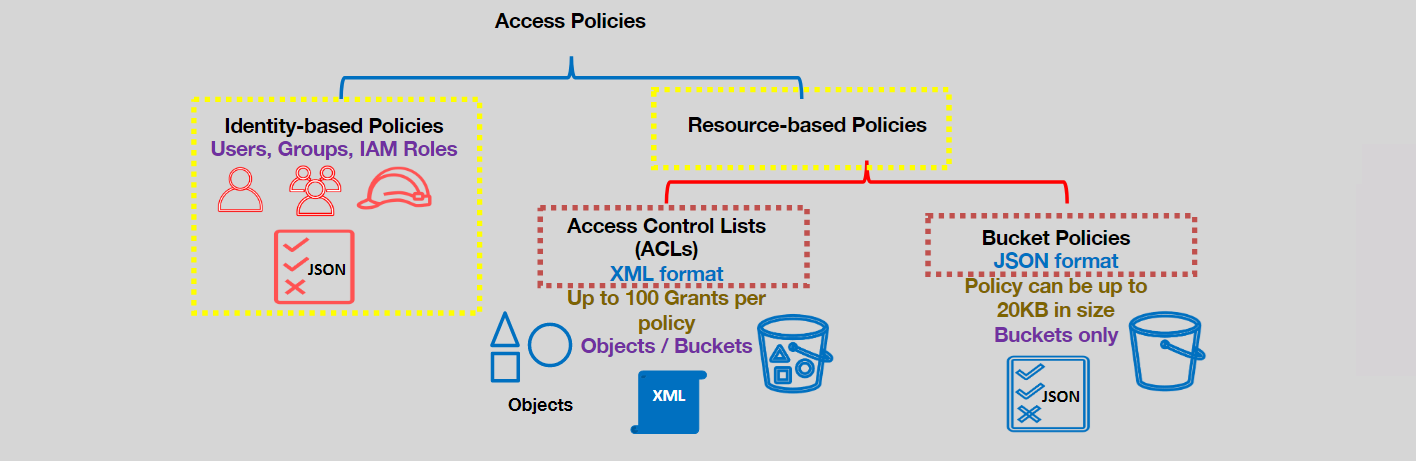
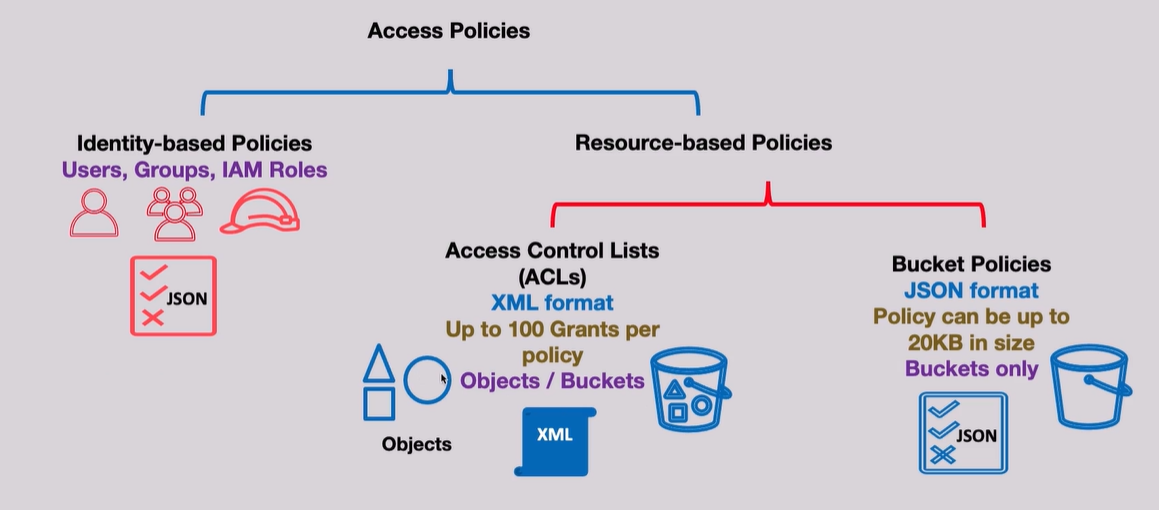
s3-access

Changed region(s): [[0.0311, 0.1215, 0.994, 0.9414], [0.3106, 0.0304, 0.4659, 0.0911]]

diff --git a/5-cloud Providers/aws/aws-services/storage/s3/3.s3-access-policies.md b/5-cloud Providers/aws/aws-services/storage/s3/3.s3-access-policies.md
@@ -8,96 +8,133 @@ Amazon S3 **Access Policies** are essential for controlling who can access your 
 
 Access policies in Amazon S3 can be categorized into two primary types:
 
-- **Identity-Based Policies:** Policies attached to IAM users, groups, or roles that define their permissions.
-- **Resource-Based Policies:** Policies attached directly to S3 resources (buckets or objects) that define who can access them.
+- **🔖 Identity-Based Policies:** Policies attached to IAM users, groups, or roles that define their permissions.
+- **🔖 Resource-Based Policies:** Policies attached directly to S3 resources (buckets or objects) that define who can access them.
 
-Both S3 buckets and Glacier vaults support IAM resource-based policies, with Glacier vaults utilizing **Vault Access Policies**.
-
-### **Policy Types:**
-
-1. **Access Control Lists (ACLs):**
-
-   - **Format:** XML
-   - **Grants:** Up to 100 grants per policy
-   - **Scope:** Can be applied at the bucket or object level
-
-2. **Bucket Policies:**
-   - **Format:** JSON
-   - **Size Limit:** Up to 20KB per policy
-   - **Scope:** Applied only at the bucket level
+> 💡 Bonus: Amazon Glacier (S3’s cold storage cousin) uses a special version called **Vault Access Policies**.
 
 ---
 
-## 🛠 **Understanding Object Ownership in S3**
+<div align="center" style="padding: 0 20px;">
+    <img src="images/s3-access-policies.png" style="border-radius: 10px;" alt="s3-access-policies">
+</div>
+
+---
+
+### **🤹♀ S3 Resource-Based Policy Types:**
+
+1⃣ **Access Control Lists (ACLs):**
+
+- **Format:** XML
+- **Grants:** Up to 100 grants per policy
+- **Scope:** Can be applied at the bucket or object level
+
+2⃣ **Bucket Policies:**
+
+- **Format:** JSON
+- **Size Limit:** Up to 20KB per policy
+- **Scope:** Applied only at the bucket level
+
+---
+
+## 🧾 **Object Ownership in Amazon S3** 🔐
+
+In S3, every object (file) is **owned by the AWS account that uploads it** — unless you configure otherwise.
 
 **Object Ownership** determines which AWS account owns the objects within an S3 bucket. Properly configuring object ownership is vital for managing access and ensuring security.
 
-### **Key Points:**
+<div style="text-align:center;">
+    <img src="images/s3-object-ownership.png" style="border-radius: 10px;" alt="S3 Object Ownership">
+</div>
 
-- **Default Privacy:** Objects and buckets are private by default.
-- **Ownership:** Every resource in AWS is owned by an AWS account.
-- **Bucket Owner:** The account that created the bucket is the resource owner.
+---
 
-### **Object Ownership Options:**
+This is important because:
 
-![S3 Object Ownership](images/s3-object-ownership.png)
+- **The object owner controls permissions** on the object (like who can read/write/delete).
+- Even if _you own the bucket_, someone else who uploads an object may own it — which can cause access headaches!
 
-- **Bucket Owner Preferred:**
+---
 
-  - The bucket owner automatically owns every object in the bucket.
-  - Access control is managed exclusively through policies, eliminating the need for ACLs.
+### 🧠 Why This Matters
 
-- **Object Writer:**
-  - The account that uploads the object is the object owner.
-  - Useful in cross-account scenarios but can complicate access management.
+If **another AWS account uploads** an object to your bucket, by default:
 
-**Recommendation:** Disable ACLs and use **Object Ownership** with policy-based access controls unless ACLs are absolutely necessary.
+- ❌ _You (the bucket owner) won’t have full access to that object._
+- You’d need the uploader to explicitly grant you permission via ACLs.
+
+➡ That’s messy, especially in **cross-account uploads**.
+
+---
+
+### ✅ Solution: Configure **Object Ownership**
+
+S3 gives you control over who owns uploaded objects with **3 modes**:
+
+| Mode                          | Who Owns the Object?                            | Recommended? |
+| ----------------------------- | ----------------------------------------------- | ------------ |
+| ❌ **Object Writer**          | Uploader (default legacy)                       | ❌ No        |
+| ✅ **Bucket Owner Preferred** | Bucket owner (even if uploaded by someone else) | ✅ Yes       |
+| 🔒 **ACLs Disabled**          | Bucket owner by default, ACLs ignored           | ✅ Strongest |
 
 ---
 
 ## 🛡 **Using Access Control Lists (ACLs)**
 
-While ACLs provide a way to grant basic permissions, they are **not recommended** due to their complexity and limited flexibility.
+Access Control Lists (ACLs) are the **legacy way** to grant permissions to S3 buckets and objects — like public read/write access or sharing with another AWS account. While they once played a vital role, **ACLs are now discouraged** in favor of more powerful and manageable **IAM and bucket policies**.
 
-### **Key Points:**
+| Feature                     | With ACLs ✅              | Without ACLs (Recommended) ✅   |
+| --------------------------- | ------------------------- | ------------------------------- |
+| Per-object permissions      | ✅ Yes                    | ❌ No                           |
+| Complex ownership scenarios | 😵 Possible               | 😊 Simplified (bucket owns all) |
+| Condition-based rules       | ❌ Not supported          | ✅ Fully supported              |
+| Public access via ACL       | ✅ Possible (but risky)   | ❌ Disabled                     |
+| Clean access control        | ❌ Scattered (per-object) | ✅ Centralized (via policies)   |
+| AWS recommendation          | ❌ Legacy feature         | ✅ Use IAM + Bucket policies    |
 
-- **Structure:** Each bucket and object has an ACL as a sub-resource.
-- **Purpose:** Defines which AWS accounts or groups are granted access and the type of access.
-- **Limitations:**
-  - Complexity in managing multiple grants
-  - Limited to basic permission settings
+### ⚙ When You Might Still Use Them
 
-### **Best Practices:**
+- Public access for individual objects
+- Legacy apps
 
-- **Disable ACLs:** Use **Object Ownership** to enforce bucket ownership and manage access through policies.
-- **Policy-Based Access:** Rely on IAM policies, bucket policies, and other policy types for more granular and manageable access control.
+### ❌ Downsides
 
----
+- Hard to scale
+- Can’t use advanced conditions (like IP filters)
+- XML format 🤢
+
+### ✅ Best Practice
+
+- **Disable ACLs** to simplify ownership and access control.
+- Use **“Bucket Owner Preferred”** mode for cross-account uploads.
+- Control access exclusively with **IAM and bucket policies**.
+- Only use ACLs if you're supporting a legacy app or edge case.
+
+💡 **ACLs = Old-school; Policies = Cloud-native.** Stick with policies for better security and clarity! 🔐
 
 ## 🔑 **Using Resource Policies**
 
 Resource policies provide a powerful and flexible way to manage access to your S3 buckets and objects. They allow you to define permissions that apply to all or specific objects within a bucket.
 
-### **Types of Resource Policies:**
+### 🪣 **Bucket Policies**
 
-1. **🪣 Bucket Policies:**
+- Written in **JSON**
+- Applied at the **bucket level**
+- Super handy for cross-account sharing, encryption enforcement, or public access
 
-   - **Scope:** Applied at the bucket level
-   - **Format:** JSON
-   - **Use Cases:** Granting cross-account access, enforcing encryption, restricting access based on conditions
+### 📦 **Vault Policies (Glacier)**
 
-2. **📦 Vault Access Policies (Glacier):**
-   - **Scope:** Applied to Glacier vaults
-   - **Format:** JSON
-   - **Use Cases:** Similar to bucket policies but specific to Glacier vaults
+- Same concept, just for Amazon Glacier
 
-### **Advantages:**
+### Why They Rock
 
-- **Granular Control:** Define precise permissions and conditions for access.
-- **Centralized Management:** Manage access for all objects within a bucket from a single policy.
-- **Flexibility:** Use conditions to enforce specific access requirements, such as IP address restrictions or encryption mandates.
+| Advantage          | Why It Matters                                                 |
+| ------------------ | -------------------------------------------------------------- |
+| 🎯 Precise Control | Use `Action`, `Condition`, and `Principal` to fine-tune access |
+| 🌍 Cross-Account   | Let another account upload, download, or list objects          |
+| 🔐 Centralized     | Define access rules in one place instead of on each object     |
 
-### **Examples**
+### ✍🏻 **Examples**
 
 #### 1⃣ **Granting Public Read Access**
 
@@ -205,3 +242,72 @@ Enforces that all object uploads use AWS KMS-managed encryption.
 
 - **Condition:** Denies any `PutObject` request that does not include `s3:x-amz-server-side-encryption` set to `aws:kms`.
 - **Effect:** Ensures that all objects uploaded to the bucket are encrypted using AWS KMS-managed keys.
+
+---
+
+## **🚫 Block Public Access (BPA)**
+
+**AWS S3 has an extra security layer** called the **"Block Public Access" (BPA)** feature — and it overrides your public policy unless you explicitly turn it off.
+
+Think of it as an **"are-you-sure-you-want-this-to-be-public" master switch**.
+
+It exists to **protect you from accidental exposure**. Even if you write a perfectly valid policy like this:
+
+```json
+{
+  "Effect": "Allow",
+  "Principal": "*",
+  "Action": "s3:GetObject",
+  "Resource": "arn:aws:s3:::your-bucket-name/*"
+}
+```
+
+…S3 will **still block access** unless you disable the Block Public Access setting.
+
+---
+
+### 🤔 How to Make a Bucket Truly Public
+
+Here’s the full checklist:
+
+| ✅ Step                             | 🔍 Why It Matters                              |
+| ----------------------------------- | ---------------------------------------------- |
+| Write the public-read bucket policy | Grants access to anonymous users               |
+| Go to S3 → Bucket → Permissions     | Where the security settings live               |
+| Click “Block public access”         | Default setting blocks **ALL public policies** |
+| Uncheck `Block all public access`   | This is the **master override switch**         |
+| Confirm changes                     | AWS asks you to acknowledge the risk ✅        |
+
+---
+
+### ⚠ Pro Tip
+
+Don’t make your entire bucket public unless absolutely necessary (e.g., hosting static website assets). For safer options:
+
+- Use **signed URLs** for controlled access
+- Enable **CloudFront** with **Origin Access Control (OAC)** for secure distribution
+
+---
+
+## 🧠 Final Best Practices (So You Don’t Lose Sleep 😅)
+
+- ✅ **Use Bucket Policies + IAM** instead of ACLs
+- ✅ **Choose "Bucket Owner Preferred"** to control all objects
+- ✅ **Log All Access** with S3 access logs or CloudTrail
+- ✅ **Add Conditions** like IP filtering or VPC access
+- ✅ **Avoid wildcards (`*`) in permissions** unless strictly necessary
+
+---
+
+## 🧾 Summary Table: Your Access Policy Cheat Sheet
+
+| Feature              | IAM Policy ✅ | Bucket Policy ✅ | ACL ❌   |
+| -------------------- | ------------- | ---------------- | -------- |
+| Scope                | Identity      | Resource         | Object   |
+| JSON Format          | ✅            | ✅               | ❌ XML   |
+| Conditional Access   | ✅            | ✅               | ❌       |
+| Cross-Account Access | ✅            | ✅               | ✅       |
+| Granular Permissions | ✅            | ✅               | ❌       |
+| Recommended?         | ✅ Always     | ✅ Always        | ❌ Avoid |
+
+🎯 **S3 access policies are your line of defense. Use them smartly, clearly, and consistently.**
